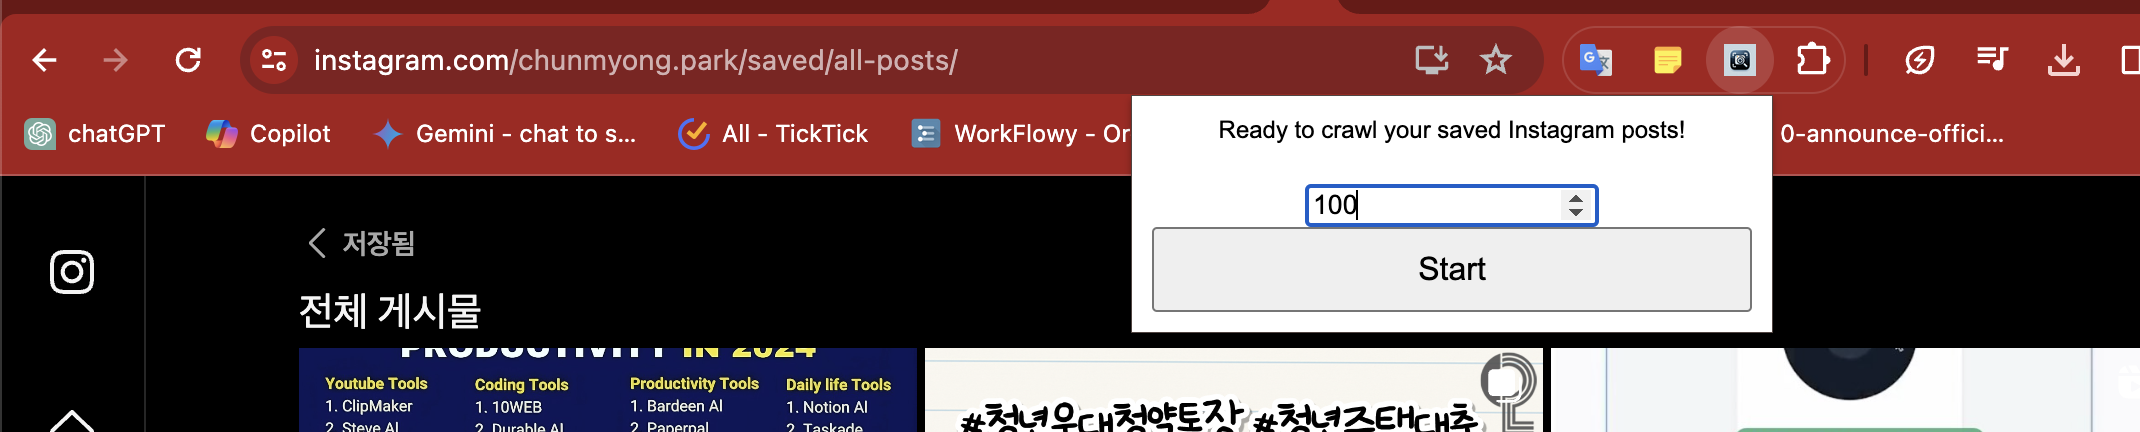
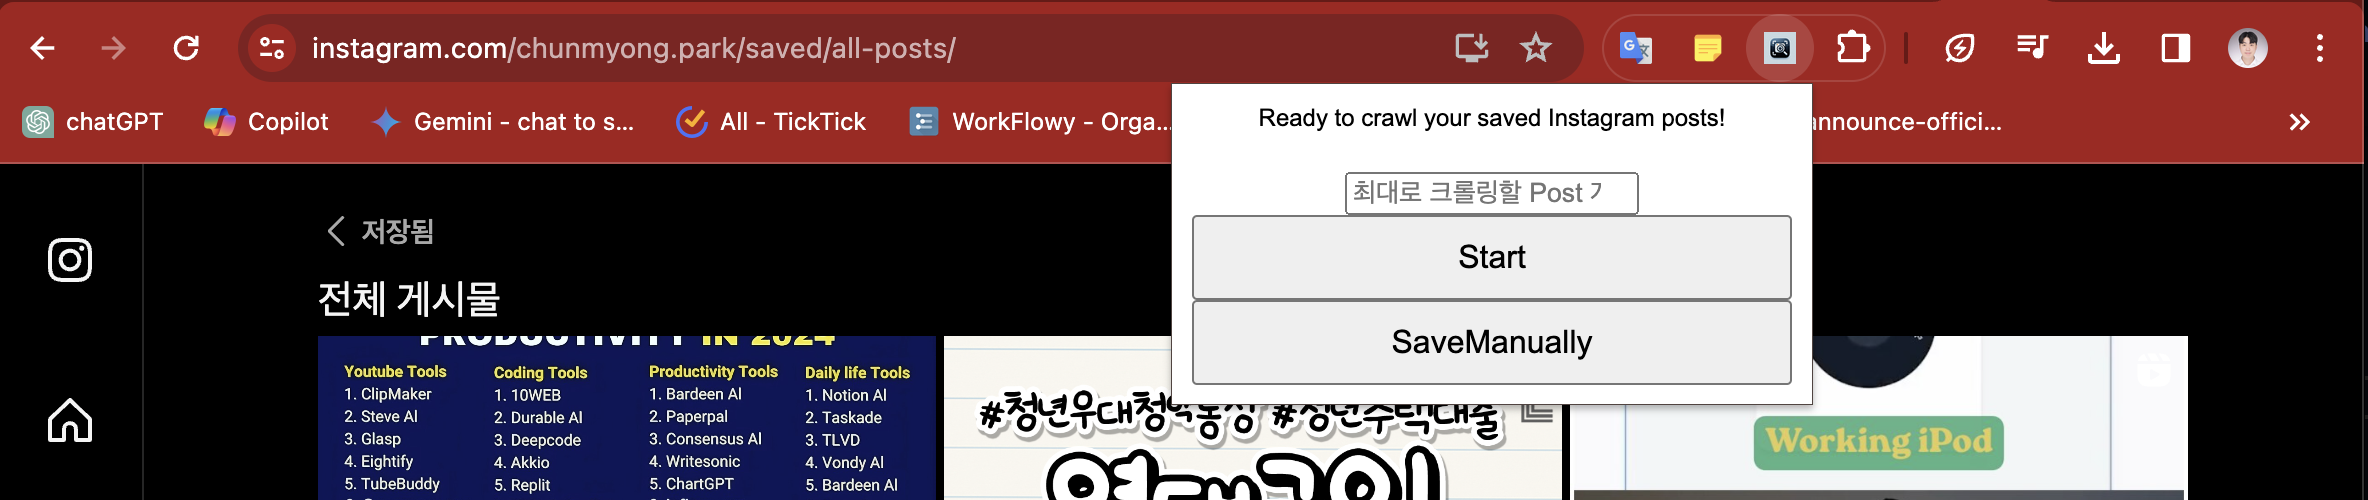
Update README.md

diff --git a/README.md b/README.md
@@ -46,9 +46,10 @@
 
 ![set](asset/5_1_set.png)
 
--   **please do nothing until complete crawling**
-
----
+-   **크롤링 도중에는 크롬 탭을 바꾸지 마세요. 크롤링이 멈출 수 있습니다**
+-   **스크롤 문제나, 인터넷 문제로 아직 max값이 차지 않았는데 크롤링이 끝났다면, 다시 Start 버튼을 누르면 이전에 저장한 것을 유지하고 다음 크롤링을 진행합니다**
+-   **크롤링 도중에 중간 결과물을 한번 저장하고 싶다면 SaveManually 버튼을 누르면 중간 결과물을 저장합니다.**
+-   **만약 스크롤이 끝났는데 다운로드 창이 뜨지 않는 경우에도 SaveManually 버튼을 눌러주세요. 지금까지 크롤링한 결과물을 저장하실 수 있습니다**
 
 ## check downloaded file from extension
 
